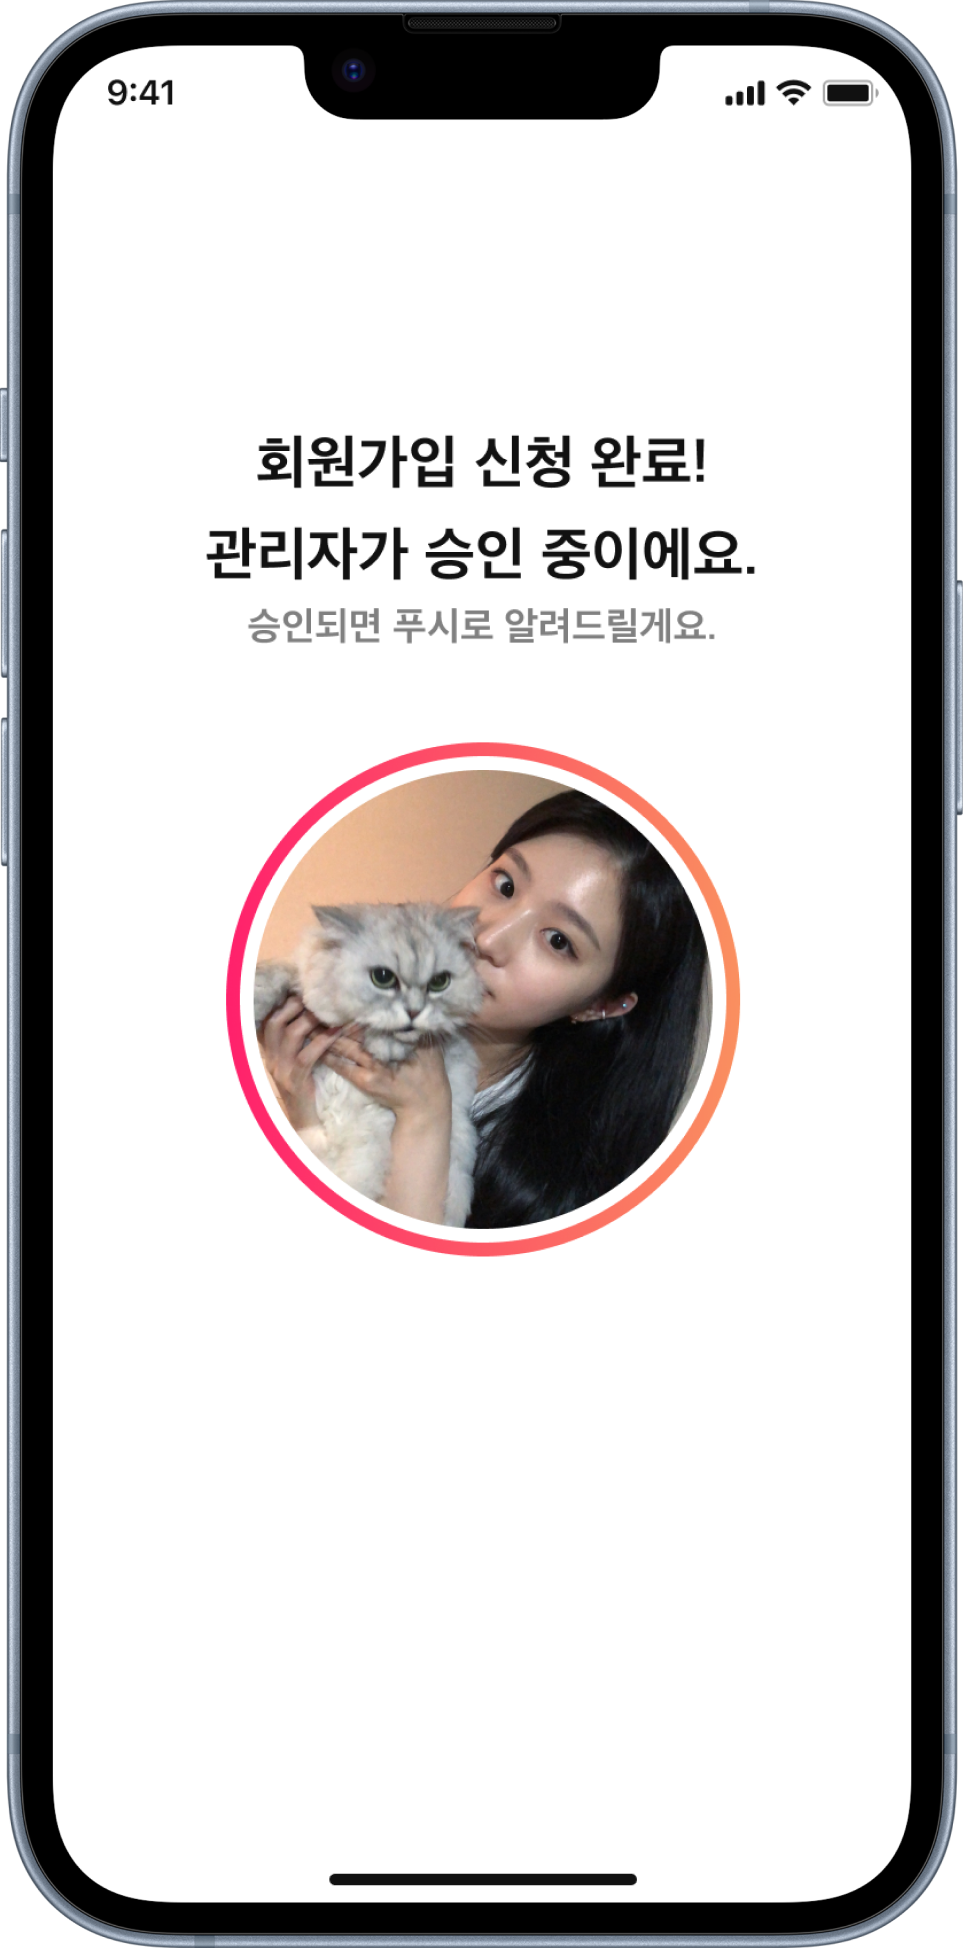
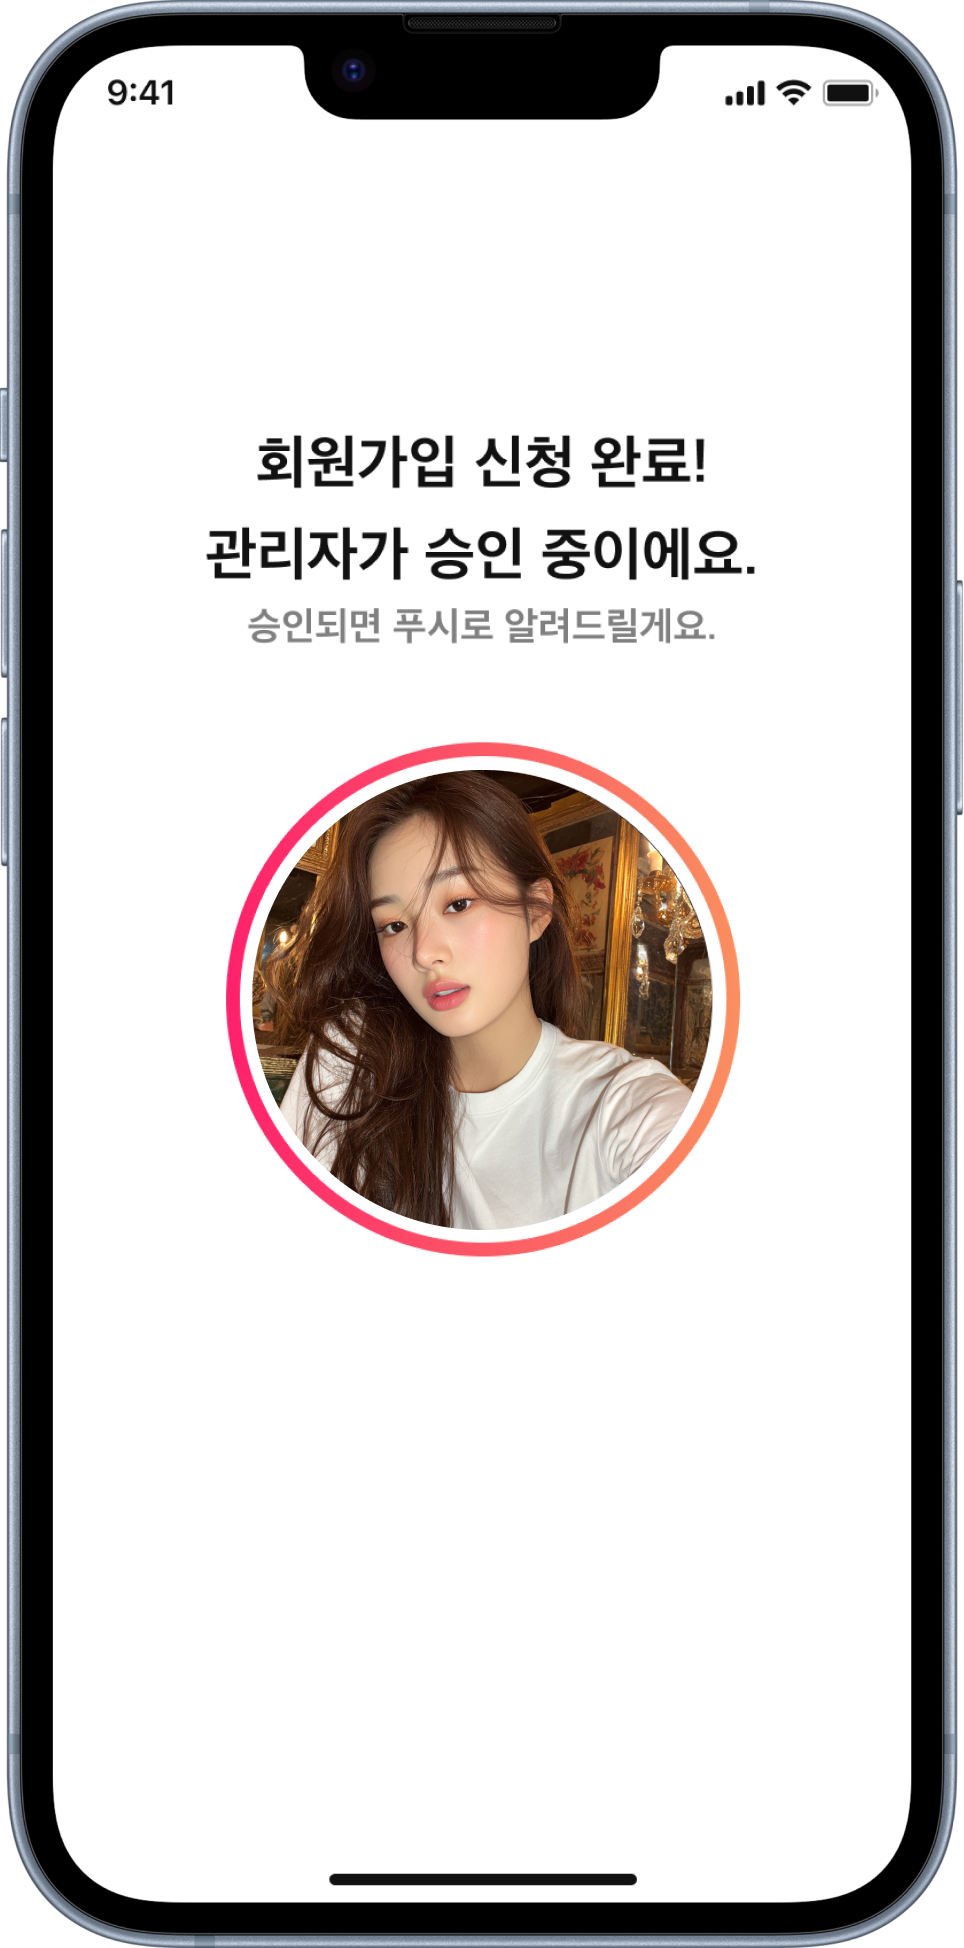
revert: 주황 border 작업 롤백 + Solution Row 2 목업 교체
border 작업(e595852, 44ed247)이 깔끔하지 않아 원상 복구.
- index.html에서 border filter 제거, clean <image> 참조로 복원
- pic/4-4.png, 4-5.png는 border 이전 (투명 배경 shape만) 상태로 복원

부가 작업:
- pic/2-1.png 교체: '신뢰할 수 있는 환경' 첫 목업을 '회원가입 신청 완료
  / 관리자 승인 중' 화면으로 변경

Changed region(s): [[0.249, 0.3696, 0.7469, 0.6468]]

diff --git a/wippy/index.html b/wippy/index.html
@@ -618,15 +618,6 @@
               <radialGradient id="g3glow" cx="50%" cy="50%" r="50%"><stop offset="0%" stop-color="#e0820a" stop-opacity=".28"/><stop offset="70%" stop-color="#e0820a" stop-opacity="0"/></radialGradient>
               <linearGradient id="g3bubble" x1="0%" y1="0%" x2="100%" y2="100%"><stop offset="0%" stop-color="#ffa94d"/><stop offset="100%" stop-color="#e0820a"/></linearGradient>
               <filter id="g3sh" x="-40%" y="-40%" width="180%" height="180%"><feGaussianBlur in="SourceAlpha" stdDeviation="4"/><feOffset dy="3"/><feComponentTransfer><feFuncA type="linear" slope=".2"/></feComponentTransfer><feMerge><feMergeNode/><feMergeNode in="SourceGraphic"/></feMerge></filter>
-              <filter id="g3border" x="-10%" y="-10%" width="120%" height="120%">
-                <feComponentTransfer in="SourceAlpha" result="binAlpha">
-                  <feFuncA type="discrete" tableValues="0 1"/>
-                </feComponentTransfer>
-                <feMorphology in="binAlpha" operator="dilate" radius="2" result="dilated"/>
-                <feFlood flood-color="#e0820a" flood-opacity="1"/>
-                <feComposite in2="dilated" operator="in" result="border"/>
-                <feComposite in="SourceGraphic" in2="border" operator="over"/>
-              </filter>
             </defs>
             <ellipse cx="200" cy="170" rx="180" ry="110" fill="url(#g3glow)"/>
             <path id="g3arcpath" d="M120 150 Q200 40 280 150" stroke="#e0820a" stroke-opacity=".35" stroke-width="1.5" stroke-dasharray="2 5" fill="none" stroke-linecap="round"/>
@@ -634,8 +625,8 @@
               <animateMotion id="g3m1" dur="3s" begin="0s;g3m2.end" rotate="auto" calcMode="linear"><mpath href="#g3arcpath"/></animateMotion>
               <animateMotion id="g3m2" dur="3s" begin="g3m1.end" rotate="auto-reverse" keyPoints="1;0" keyTimes="0;1" calcMode="linear"><mpath href="#g3arcpath"/></animateMotion>
             </path>
-            <image href="pic/4-4.png" x="60" y="100" width="120" height="120" filter="url(#g3border)"/>
-            <image href="pic/4-5.png" x="220" y="100" width="120" height="120" filter="url(#g3border)"/>
+            <image href="pic/4-4.png" x="60" y="100" width="120" height="120"/>
+            <image href="pic/4-5.png" x="220" y="100" width="120" height="120"/>
             <image href="flag-korea.svg" x="107.8" y="67.8" width="24.4" height="24.4"/>
             <image href="flag-japan.svg" x="267.2" y="68.4" width="25.6" height="25.6"/>
             <g font-family="system-ui,-apple-system,sans-serif" text-anchor="middle" font-weight="700" font-size="11" letter-spacing="2" fill="#e0820a">
